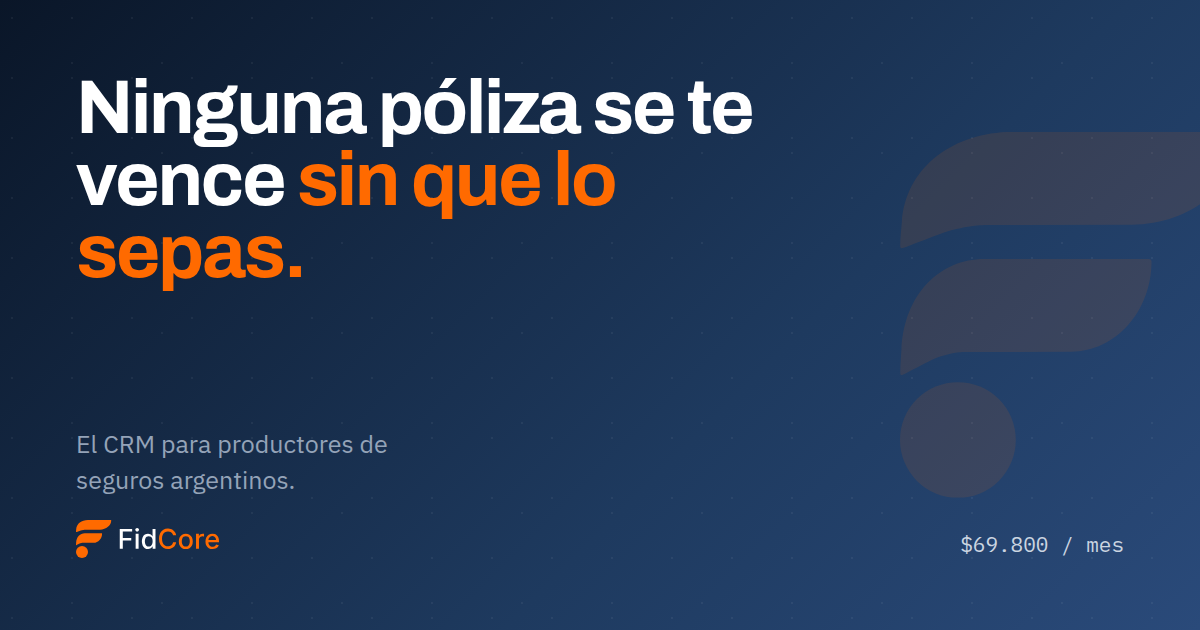
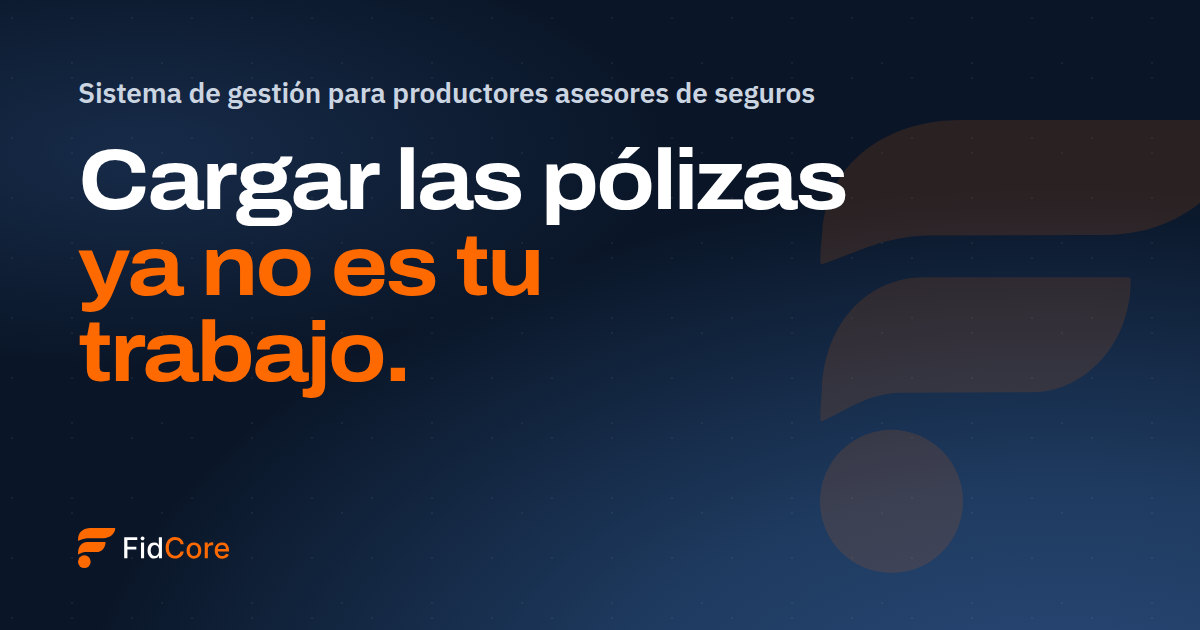
Suscripción escondida, título directo y política de privacidad
- La contratación (precio, «De la decisión a operar», el formulario con
  Mercado Pago y los botones que llevan ahí) queda detrás de
  MOSTRAR_SUSCRIPCION = false en config.ts, hasta tener los Términos y
  Condiciones. Los botones pasan a «Consultar», que abre un correo a
  info@fidcore.com.ar. Sin la suscripción, la página no consulta el precio
  al panel y la descripción no lo menciona.
- El H1 dice qué es: «Sistema de gestión para productores asesores de
  seguros»; el lema grande queda debajo.
- /privacidad: la pide Google para publicar el registro de FidCore con el que
  las instalaciones suben sus backups a Drive (alcance drive.file, Uso
  Limitado). Sin datos personales del responsable, por decisión del PAS.
- Pie en columnas, con la política de privacidad. Los enlaces llevan «/»
  para funcionar también desde /privacidad.
- Preguntas: la de las 48 horas sin «pagás la primera cuota», y la de los
  datos cuenta lo de Google Drive.
- og.png sin precio y con el titular actual.

Claude-Session: https://claude.ai/code/session_01DYYdiXiZ2Kk1ro9gGtioVe

diff --git a/src/config.ts b/src/config.ts
@@ -30,7 +30,23 @@ export const PANEL_URL = 'https://panel.fidcore.com.ar'
  */
 export const WHATSAPP_NUMERO = ''
 
-export const EMAIL_CONTACTO = 'contacto@fidcore.com.ar'
+export const EMAIL_CONTACTO = 'info@fidcore.com.ar'
+
+/**
+ * La contratación por la página: el precio, «De la decisión a operar», el
+ * formulario con el pago por Mercado Pago y los botones que llevan ahí.
+ * Escondida hasta tener los Términos y Condiciones (pedido del PAS, 13/11/2026:
+ * «lo escondemos por el momento»). En true vuelve todo como estaba.
+ */
+export const MOSTRAR_SUSCRIPCION = false
+
+/** Correo de consulta, con el asunto puesto. */
+export const MAILTO_CONSULTA = `mailto:${EMAIL_CONTACTO}?subject=${encodeURIComponent('Consulta sobre FidCore')}`
+
+/** El botón principal: contratar si la suscripción está a la vista, consultar si no. */
+export const CTA = MOSTRAR_SUSCRIPCION
+  ? { href: '/#solicitar', texto: 'Empezar ahora' }
+  : { href: MAILTO_CONSULTA, texto: 'Consultar' }
 
 const WHATSAPP_MENSAJE = encodeURIComponent(
   'Hola, vi FidCore CRM y quiero más información.',
